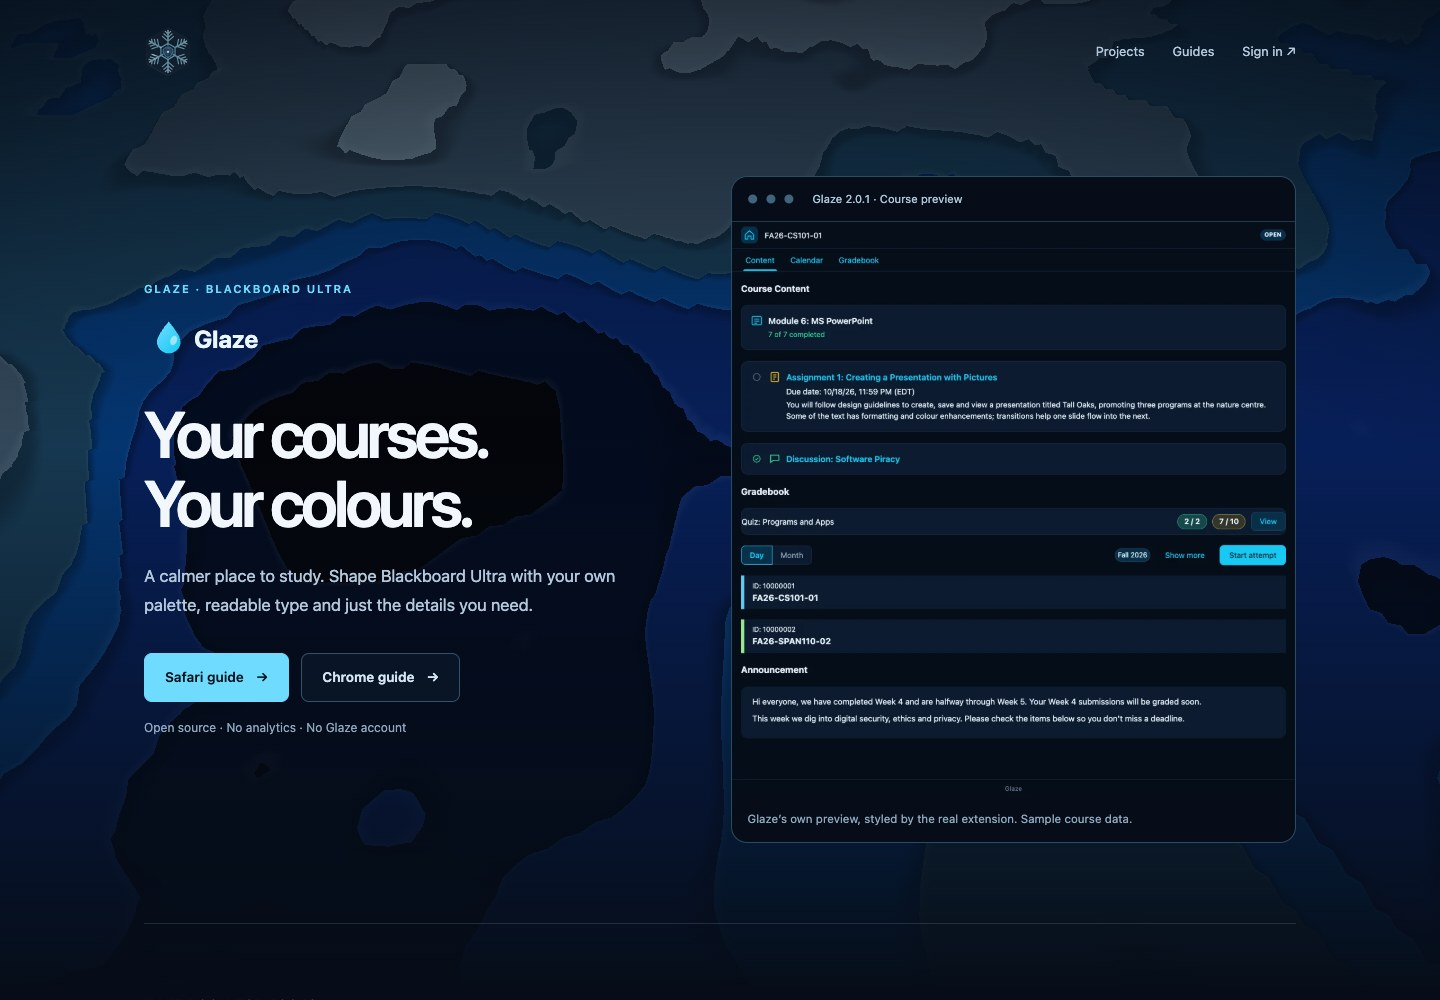
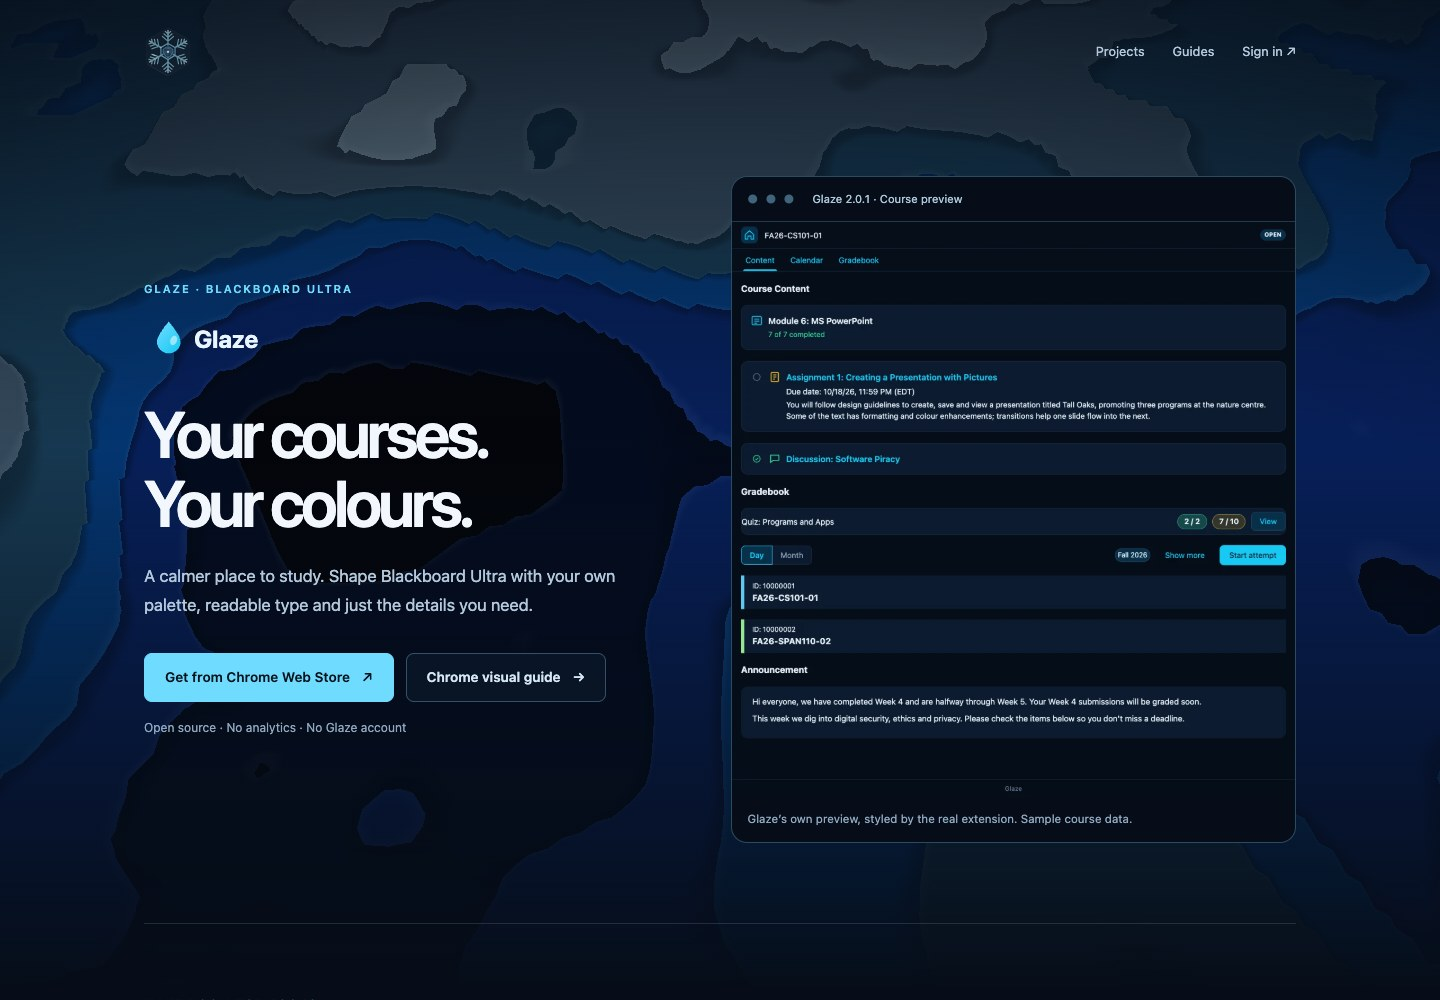
Match Glaze install links to the visitor's browser

Changed region(s): [[0.125, 0.651, 0.4062, 0.713]]

diff --git a/docs/public-pages.md b/docs/public-pages.md
@@ -4,6 +4,11 @@ The hub `/` links six projects and the guide index. `/rimeward`, `/crosspane`,
 `/rimewire` and `/glaze` contain public product descriptions and demonstrations. `/privacy`
 describes current storage, provider connections and local versus shared data.
 
+Glaze's primary install action matches desktop Safari or Chrome and keeps its
+visual guide beside it. Safari on Mac links to the signed 2.0.1 app archive;
+Chrome links to the extension store. Other browsers and visitors without JavaScript
+retain both platform-labelled choices. Downloads begin only when a link is chosen.
+
 The desktop project carousel animates and supports dragging, arrow keys and
 pause/resume. Phones use native horizontal scrolling with snap points, so vertical
 swipes scroll the page normally. All six project links remain available without
